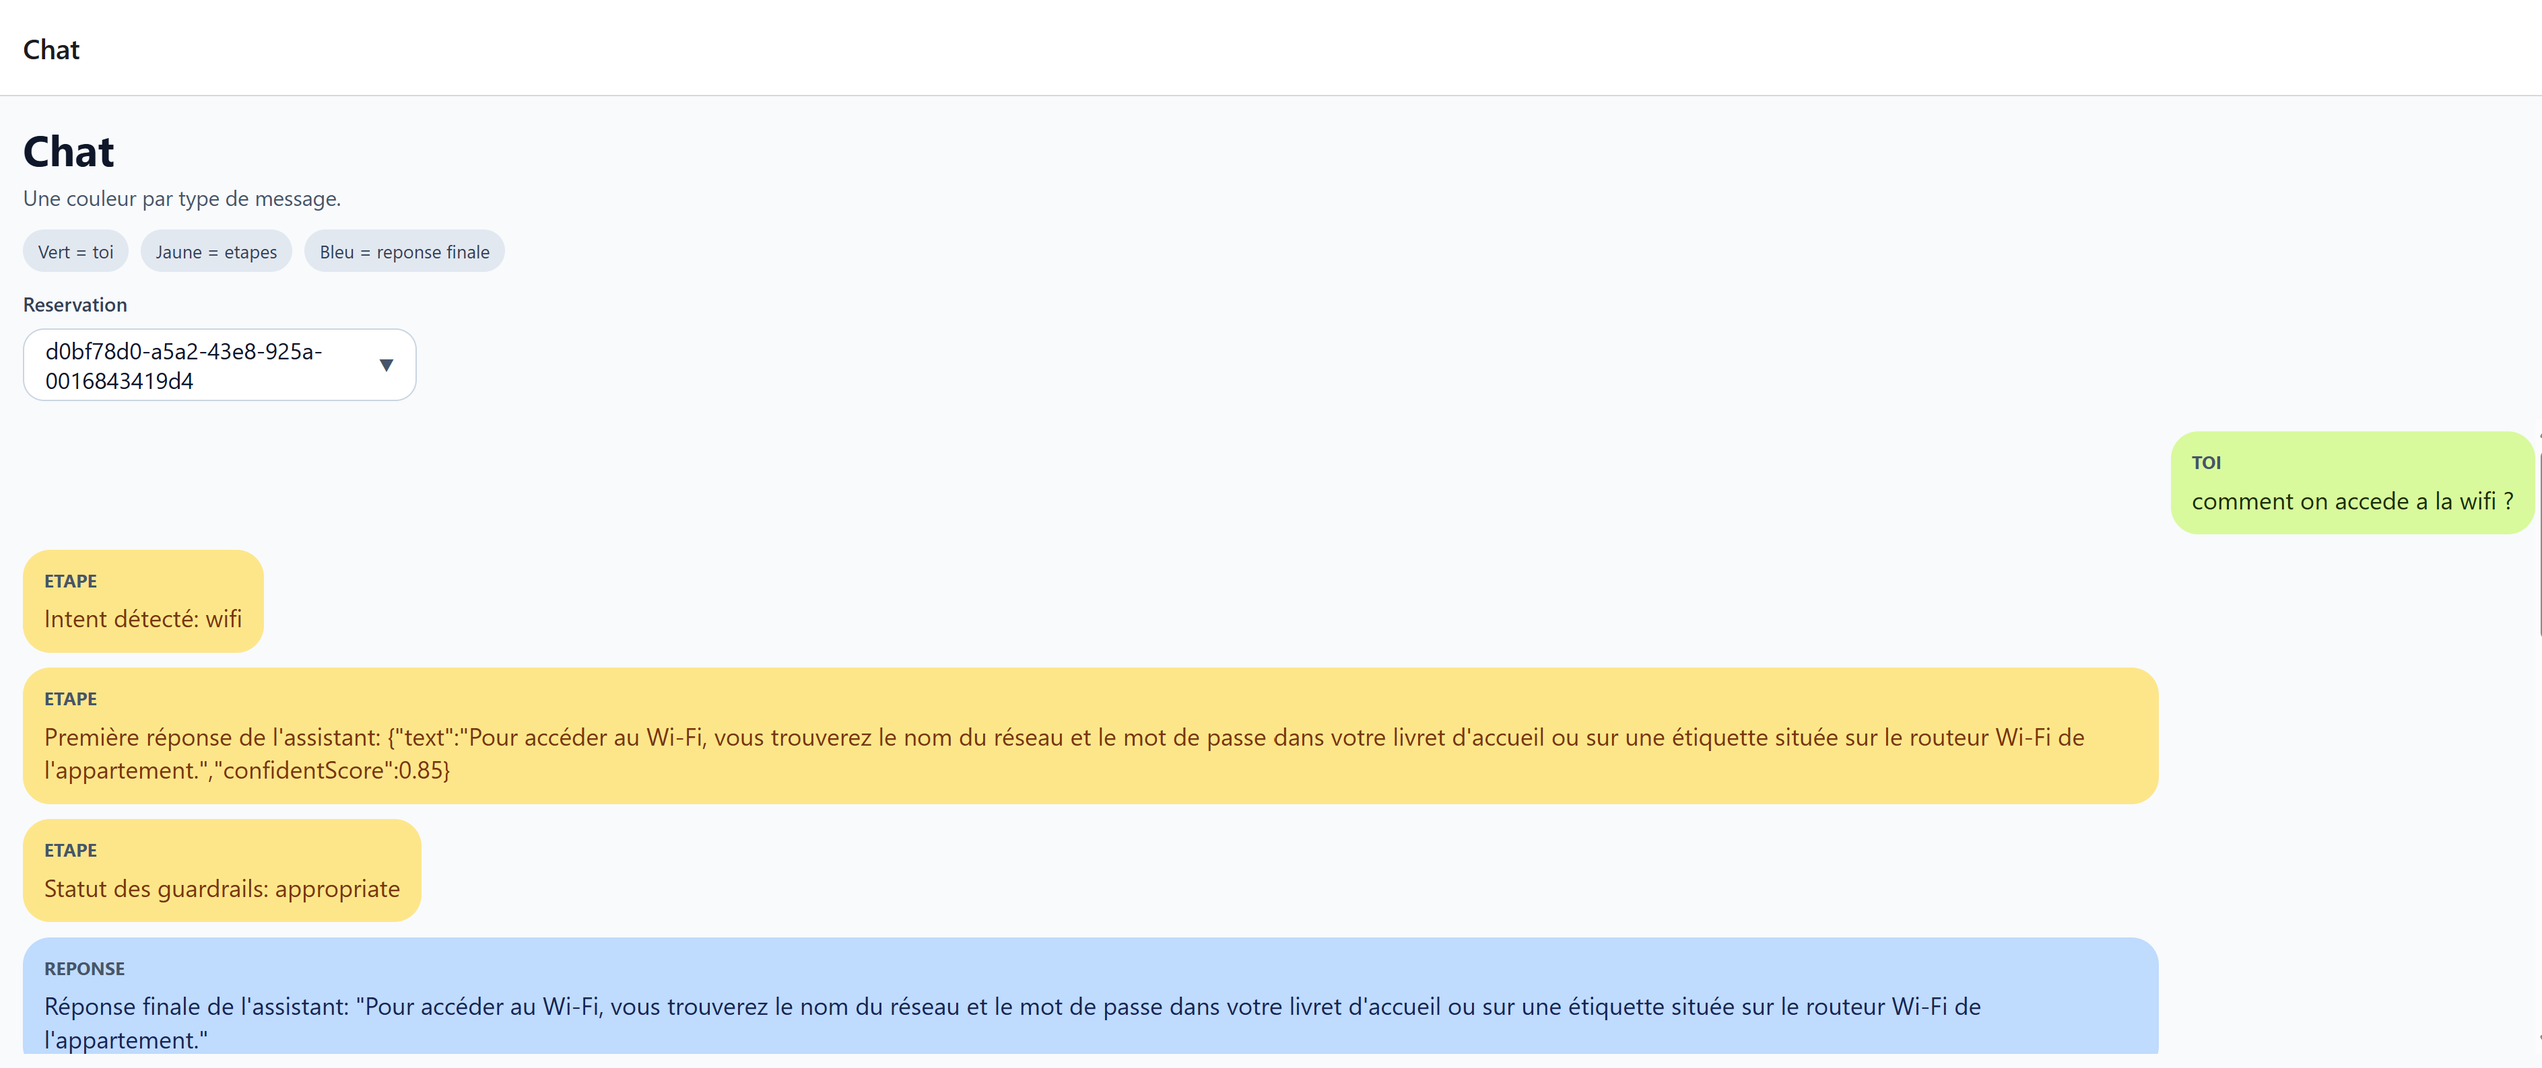
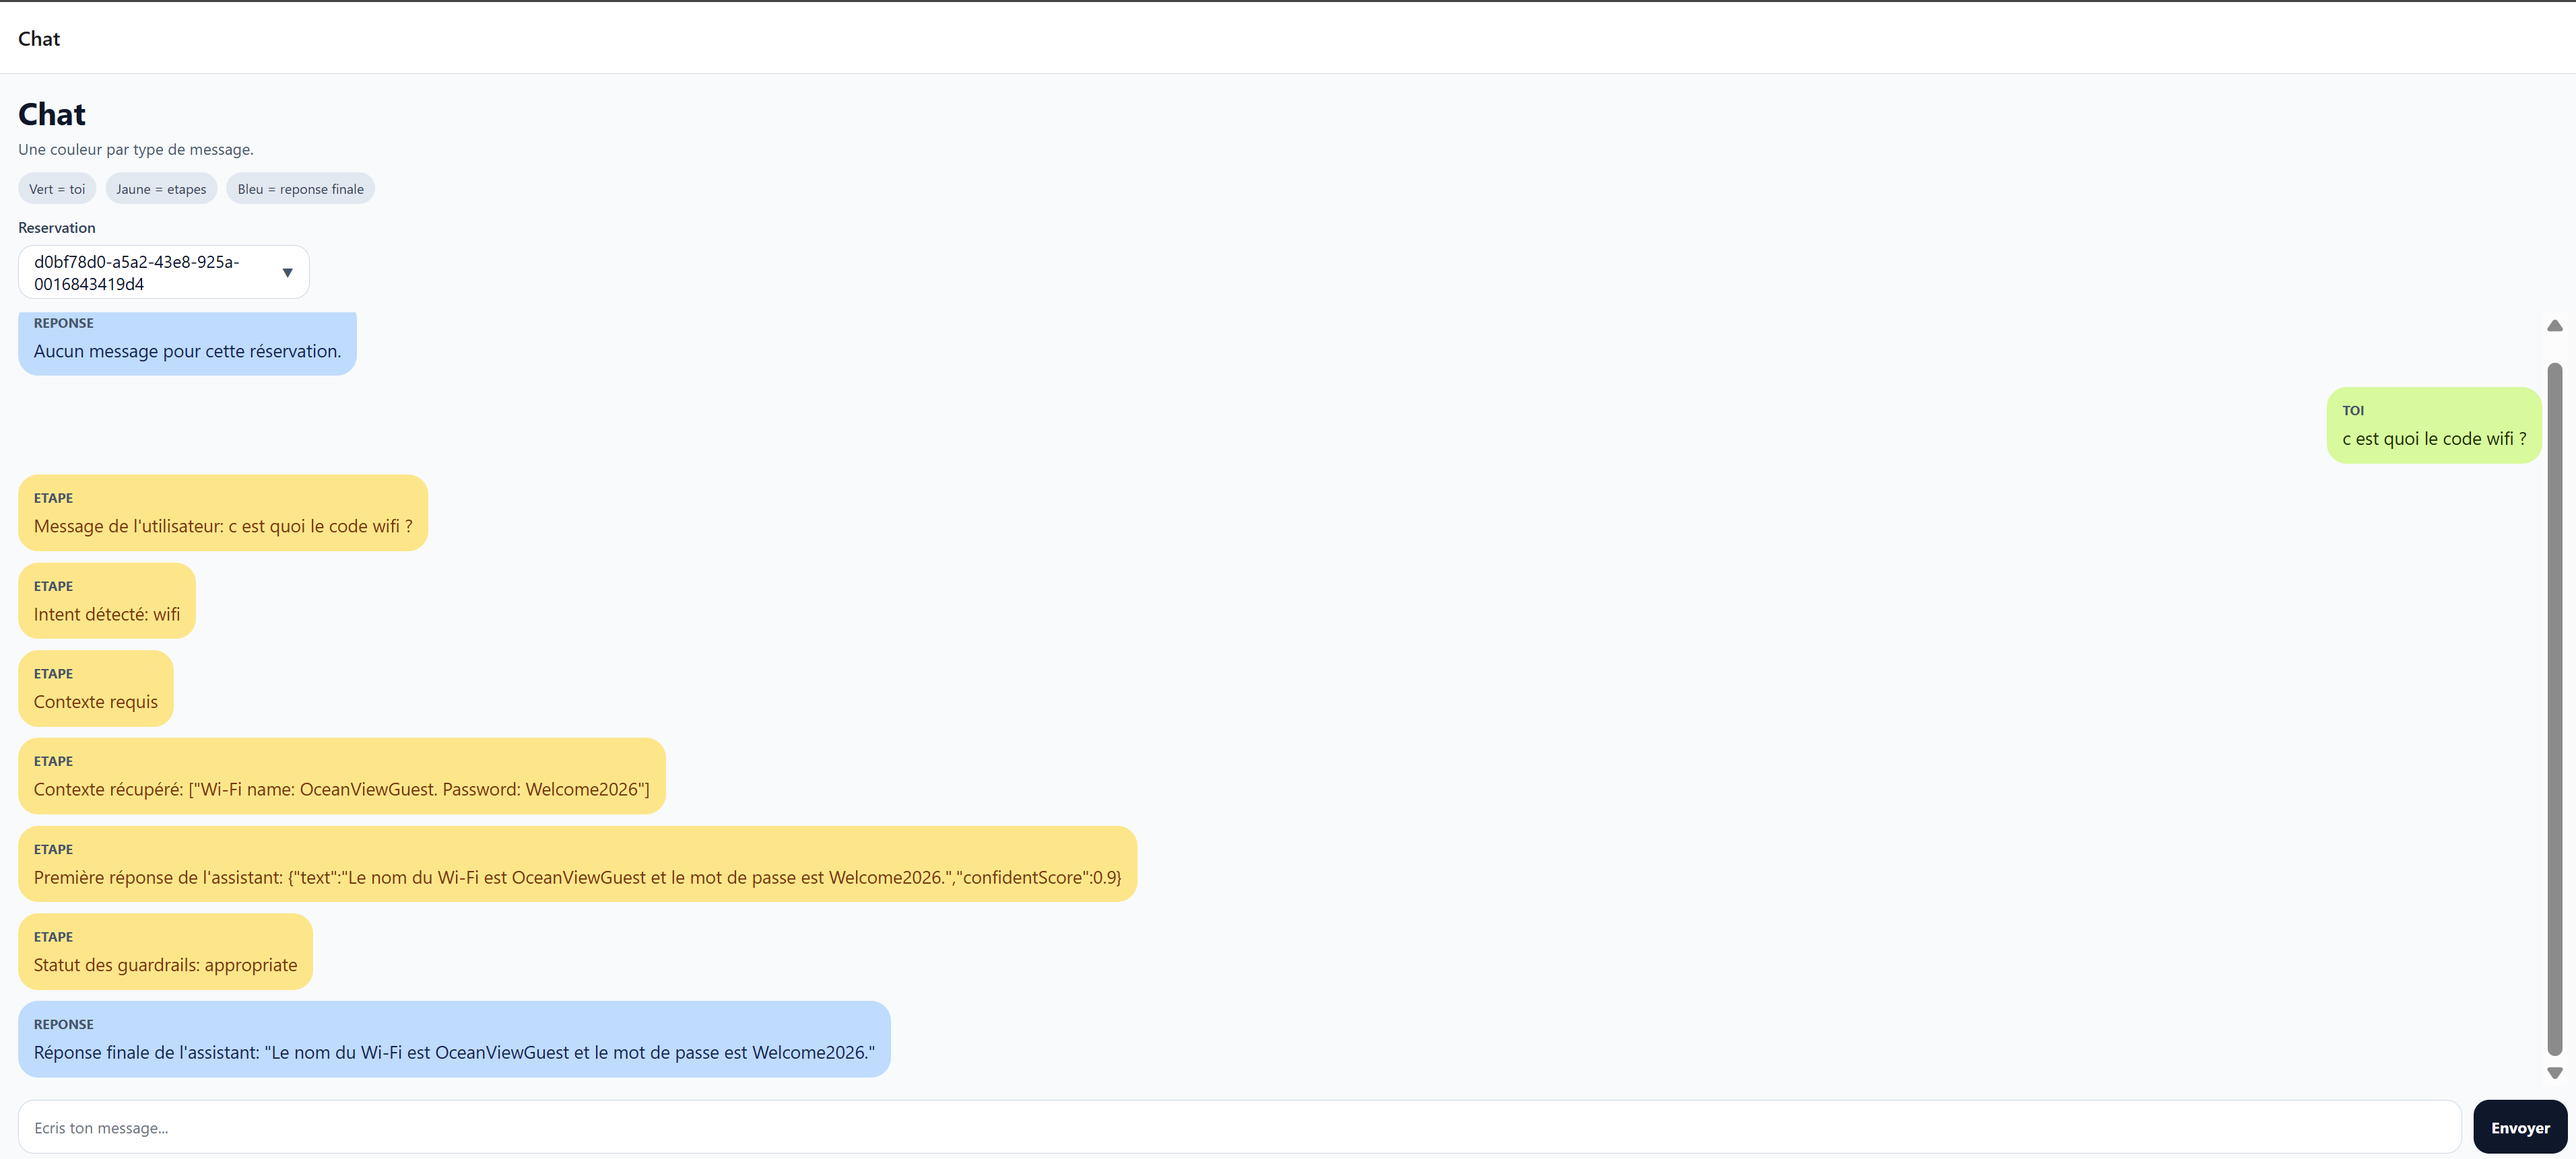
feat(): update prompt retrieve context most relevant about intent and current context

diff --git a/server/lib/ai/rag.ts b/server/lib/ai/rag.ts
@@ -77,7 +77,18 @@ Return JSON only with:
  * Evaluates whether additional property knowledge must be retrieved before generating a reply.
  */
 export async function needRetrieveContext(userInput: UserInput, classifiedIntent: Intent) {
-    const prompt = `Based on the user's input ${JSON.stringify(userInput)} and the classified intent "${classifiedIntent}", determine if we need to retrieve more context information to better understand the user's intent. Please answer with "yes" or "no".`;
+    const prompt = `
+Based on the user's input ${JSON.stringify(userInput)} and the classified intent ${JSON.stringify(classifiedIntent)}, determine if additional property-specific context is needed to answer the user correctly.
+
+Set needToRetrieve to true when the answer depends on factual property knowledge such as check-in instructions, house rules, amenities, wifi, parking, transport, address details, or other property information stored in the knowledge base not present in the user's input context.
+
+Set needToRetrieve to false when the user message can be answered without retrieving extra property context.
+
+Return JSON only with:
+- needToRetrieve
+- reason
+- confidentScore
+`;
     const response = await AI_GEMINI_CLIENT.models.generateContent({
         model: AI_GEMINI_MODEL,
         contents: prompt,

diff --git a/mobile/app/chat.tsx b/mobile/app/chat.tsx
@@ -203,12 +203,20 @@ export default function ChatScreen() {
             });
           }
 
-          if (message.needToRetrieveContext && message.retrievedContext) {
+          if (message.needToRetrieveContext) {
             newMessages.push({
-              id: `context-${message.id}`,
-              text: `Contexte récupéré: ${JSON.stringify(message.retrievedContext)}`,
+              id: `need-context-${message.id}`,
+              text: 'Contexte requis',
               type: 'step',
             });
+
+            if (message.retrievedContext) {
+              newMessages.push({
+                id: `context-${message.id}`,
+                text: `Contexte récupéré: ${JSON.stringify(message.retrievedContext)}`,
+                type: 'step',
+              });
+            }
           }
 
           if (message.firstResponse) {

diff --git a/README.md b/README.md
@@ -10,7 +10,7 @@ The goal of the project is to simulate a reservation support assistant:
 - the mobile app is only the client UI layer built with React Native
 - all RAG logic, LLM calls, and database access are handled by the Hono backend
 - this separation keeps the client/server boundary cleaner and avoids exposing database access or model orchestration directly in the frontend
-- the backend loads reservation context and conversation history, classifies the intent, decides whether to filter to a human agent, optionally retrieves property knowledge, generates a response, runs guardrails, and stores the result in the database
+- the backend loads reservation context and conversation history, classifies the user intent to narrow retrieval to the relevant context only, decides whether to filter to a human agent, optionally retrieves targeted property knowledge, generates a response, runs guardrails, and stores the result in the database
 - there is currently no real API protection layer such as authentication or signed client access because this repository is intended for local testing and demo purposes only
 
 ## Repository Structure
@@ -33,13 +33,15 @@ server/
 3. The backend verifies the reservation exists.
 4. The backend runs the RAG pipeline:
    - load reservation context and chat history
-   - classify intent
+   - classify intent first to identify which context is actually relevant
    - decide whether human handoff is needed
-   - optionally retrieve extra property context
+   - retrieve only the extra property context linked to that intent
    - generate a first response
    - run a guardrail check
    - save the run in the database
 5. The mobile app reloads the conversation and displays the user message, intermediate steps, and final answer.
+
+This project intentionally keeps retrieval simple. It does not use embeddings or vector similarity search to find the closest chunks, because that would be overkill for this small and controlled dataset. The intent classification step already acts as a strong filter, which keeps prompts smaller and helps reduce hallucinations, noise, and avoidable errors by decomposing the workflow into simpler steps. The same routing idea could also be implemented with a more classic ML classifier instead of an LLM.
 
 ![Global workflow](schema_flow_rag.png)
 
